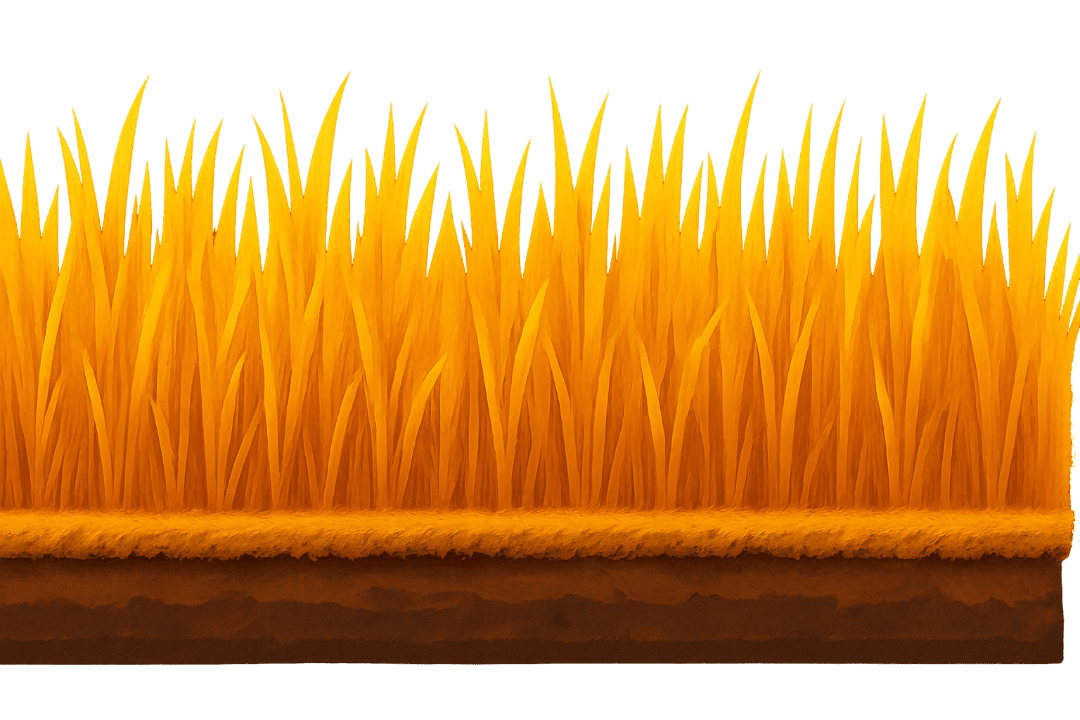
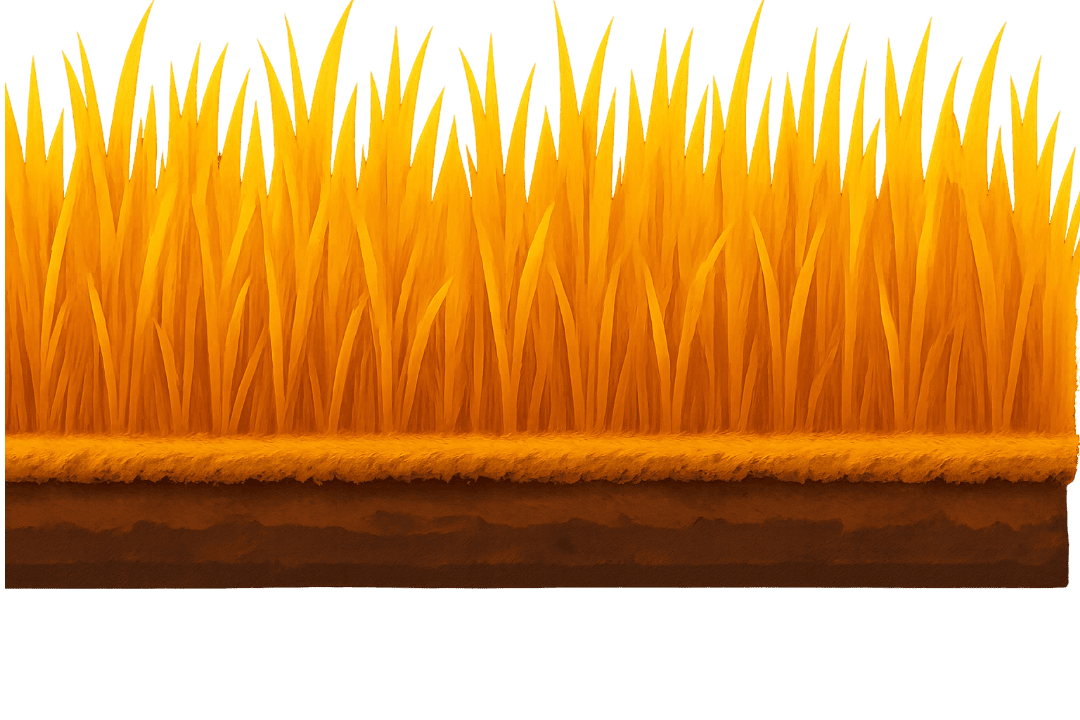
,

diff --git a/tpfinalparte2/tpfinalparte2.js b/tpfinalparte2/tpfinalparte2.js
@@ -1,19 +1,20 @@
 let juego; 
 let imgMenu;
 let imgInstrucciones;
-let imgPiedra;
 let imgPradera;
 let imgPerder;
 let imgGanar;
 let imgCreditos;
+let imgPasto;
 function preload() {
   imgMenu = loadImage("img/Imagen0.png");
   imgInstrucciones = loadImage("img/fondo.png");
-  imgPiedra = loadImage("img/piedra.png");
   imgPradera = loadImage("img/fondo.png");
   imgPerder = loadImage("img/perder.png");
   imgGanar = loadImage("img/Imagen0.png");
   imgCreditos = loadImage("img/creditos.png")
+  imgPasto= loadImage("img/pasto.png")
+  
 }
 
 function setup() {

diff --git a/tpfinalparte2/Clasejuego.js b/tpfinalparte2/Clasejuego.js
@@ -18,7 +18,7 @@ class Juego {
   this.leon = new Leon(this.jugador, this.obstaculos);
   this.puerta = new Puerta(this.jugador, 5);
   this.puntos = 0;  // contadora de obstáculos
-  this.puntosPuerta = 5;
+  this.puntosPuerta = 60;
 }
 mostrar() {
   if (this.estado === "menu") {
@@ -31,8 +31,7 @@ mostrar() {
       } 
     //suelo
     fill(100, 200, 100);
-    rect(0, 380, width, 100);
-    
+    image(imgPasto,0,315,width,100);
    
 
     //crear obstaculos
